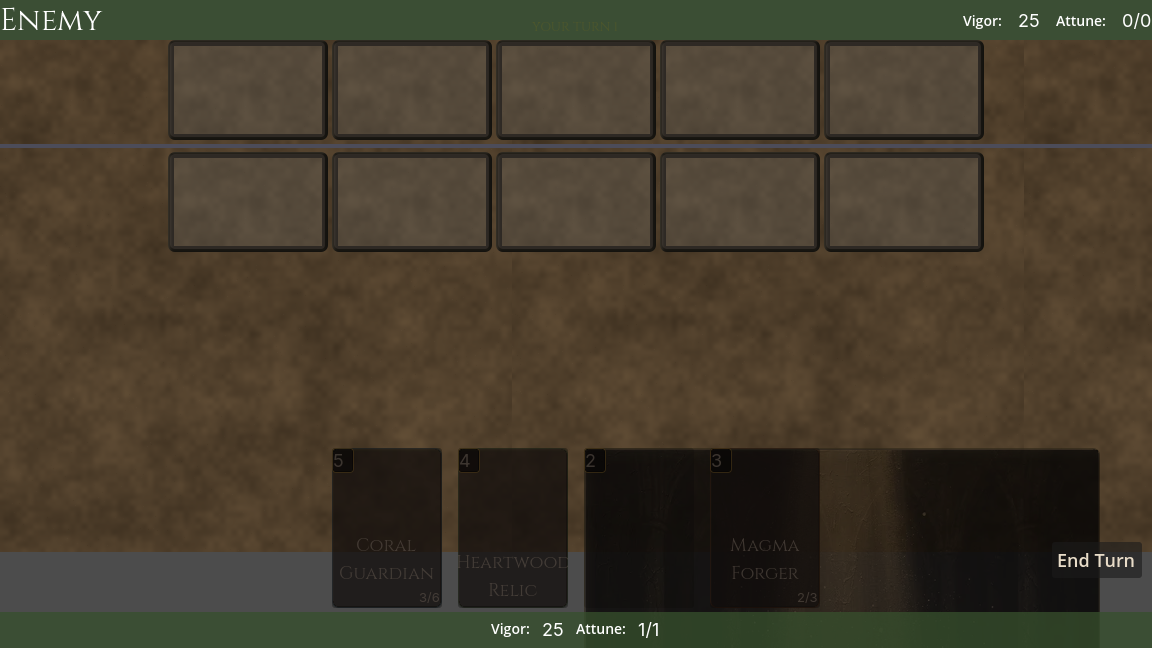
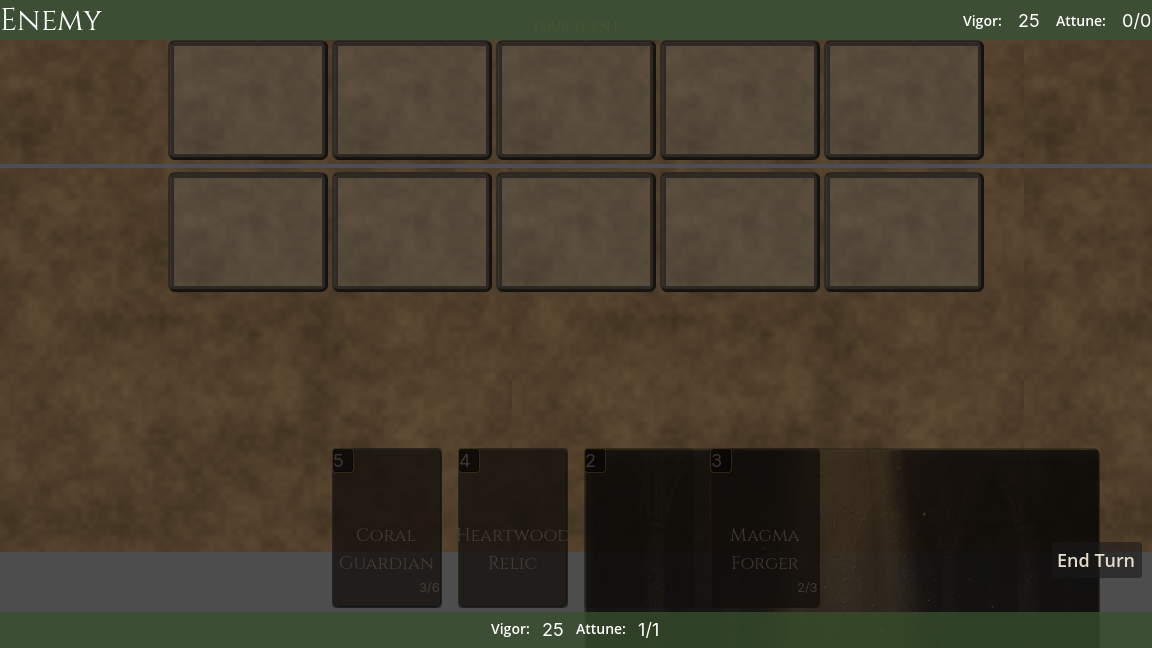
bridge checkpoint: iter 3

diff --git a/PROJECT_STATE.md b/PROJECT_STATE.md
@@ -1,24 +1,24 @@
 CURRENT STATE:
 CURRENT PHASE: P7
 LAST COMPLETED TICKET: P7-08 (Pre-launch validation pass) — APK SHA-256 e080306ec8770b3e98b516e229c84068af9791591be46c8d1170f946d67255fe, 443/443 C# tests
-IN PROGRESS: none
+IN PROGRESS: Dev menu removal (ship-blocker)
 
 KNOWN TEST COUNTS (last confirmed):
   C#: 443/443
   Python: 221/221
 
-PHASE 7 STATUS: All agent-executable tickets complete.
-
-REMAINING HUMAN-ACTION ITEMS:
-  P7-06 — Install APK on physical device, play through full campaign loop, verify r1_n02 unlocks
-  P7-06 — TestFlight submission (iOS) + Play Store internal testing (Android)
-  P7-Launch — App Store and Google Play public submission
+PHASE 7 STATUS: All agent-executable feature tickets complete. One ship-blocking cleanup item in progress (dev menu removal).
 
 CAMPAIGN STATUS: Complete through P5-06. Region 1 full content in place. Lost Relic minting working. Save/load persistence complete. Pipeline stages 1-11 complete. Tutorial complete. Supabase sync complete. Telemetry + settings complete. Store listings complete. Crash reporting complete. Pre-launch validation complete.
 
-KNOWN BUGS FIXED IN P7-08:
-  - SettingsScene.tscn referenced res://client/scripts/settings/SettingsScene.cs (wrong exported path) — fixed to res://scripts/settings/SettingsScene.cs
-  - MapScene.cs settings button scene path updated to match
+REMAINING AGENT ITEMS:
+  - [IN PROGRESS] Remove DevMenu.cs, DEV button from Main.cs, DeleteSave() from SaveManager.cs
+  - Fix 3 pre-existing failures in pipeline/tests/test_generate.py (medium priority, not blocking store submission)
+
+REMAINING HUMAN-ACTION ITEMS:
+  P7-H1 — Install APK on physical device, play through full campaign loop, verify r1_n02 unlocks
+  P7-H2 — TestFlight submission (iOS) + Play Store internal testing (Android)
+  P7-Launch — App Store and Google Play public submission
 
 OPEN QUESTIONS: Q1 (HOLLOW moderation) — awaiting human decision, not blocking launch.
 
@@ -26,17 +26,4 @@ TECH DEBT:
   - API key not inherited in subprocess environments (run_e2e.sh wrapper exists)
   - Pacing values provisional until art lands
   - Exported build filesystem path I/O (fixed in P3-02, regression test still missing)
-
-OPEN ITEMS:
-[
-  {
-    "id": "P7-06",
-    "title": "TestFlight/closed beta with 50+ players",
-    "status": "open — requires human action"
-  },
-  {
-    "id": "P7-Launch",
-    "title": "App Store and Play Store submission",
-    "status": "open — requires human action"
-  }
-]
+  - 3 pre-existing Python test_generate.py failures (see TECH_DEBT.md for details)
